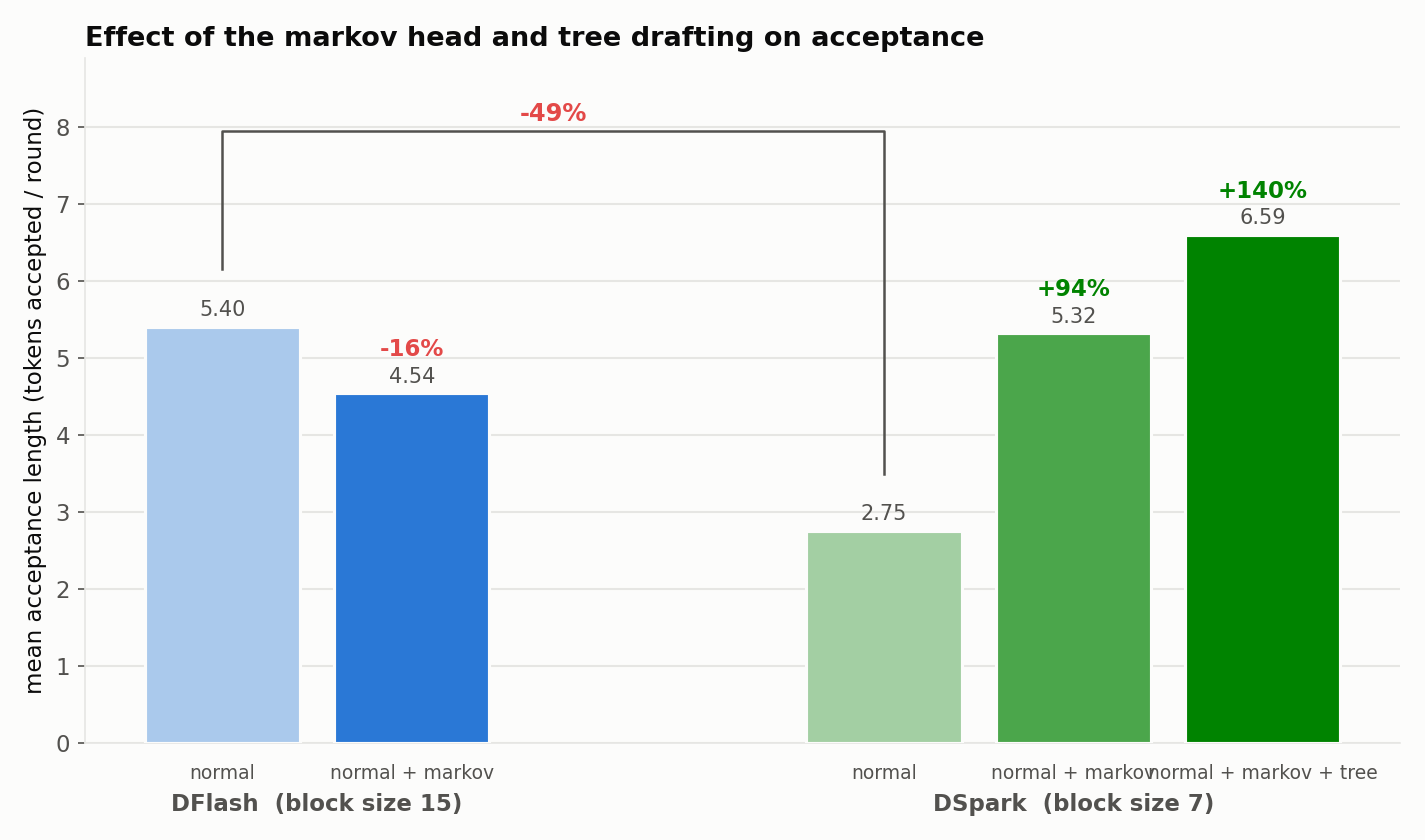
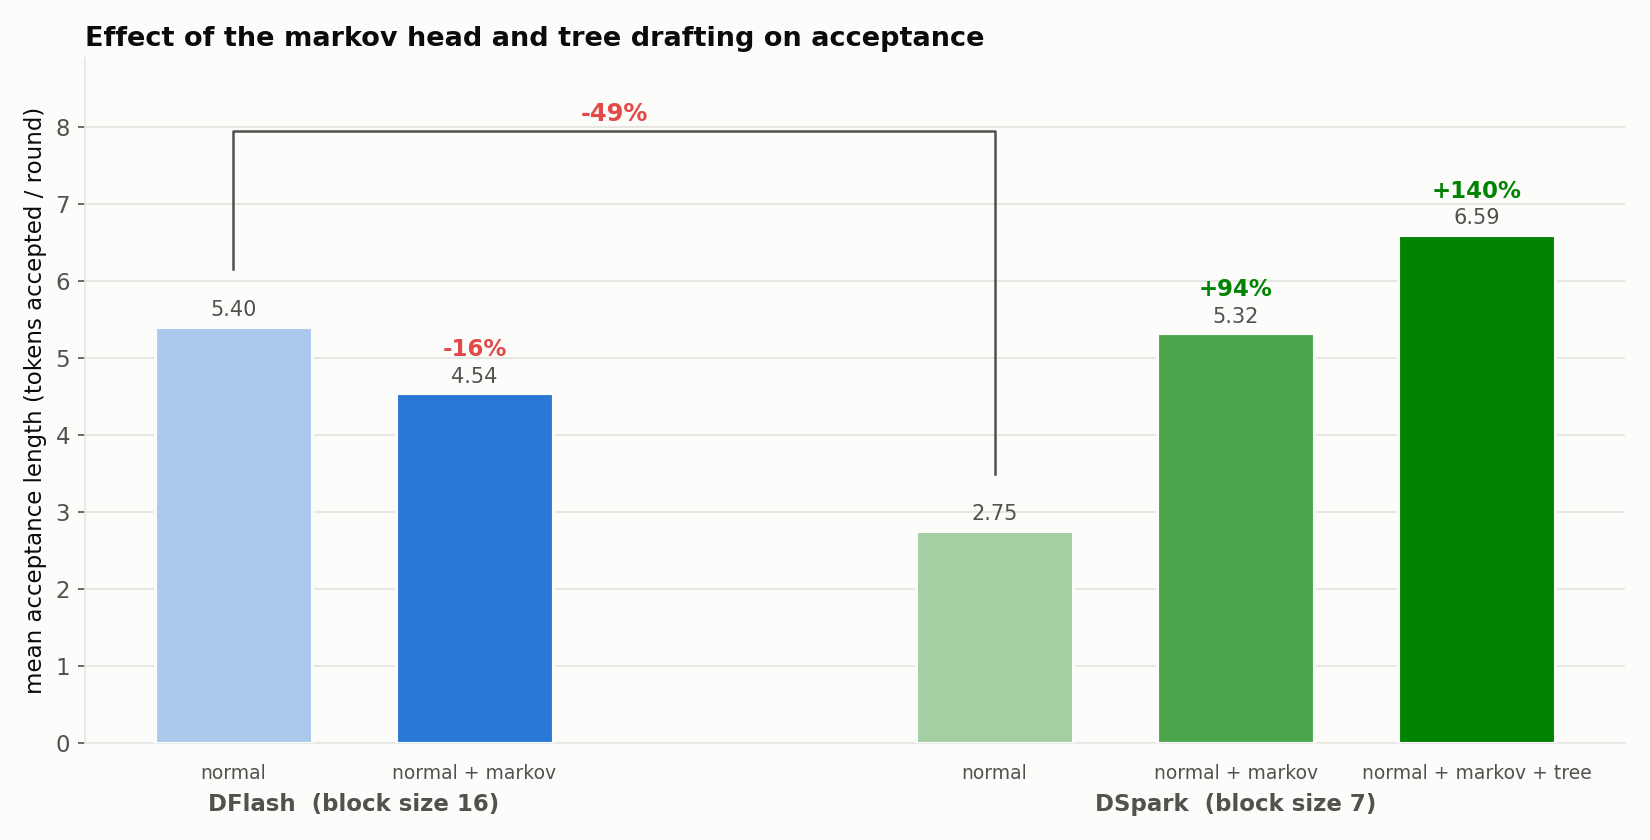
Standardize SparklingTree block size to 16; refresh three regenerated charts
Claude-Session: https://claude.ai/code/session_01Ev2qgrrBSa65wfv6bmJC1b

diff --git a/content/blogs.js b/content/blogs.js
@@ -2155,17 +2155,17 @@ DDTree starts at an extremely high acceptance rate, because it can hedge with mu
 
 SparklingTree takes the best of both worlds. It starts high due to the hedging and branching, but also maintains relatively steady throughout depth because of the markov model conditioning.
 
-*Note: DDTree and DFlash are block size 15 drafters, so the graph continues for them, but not for this initial version of SparklingTree or DSpark.*
+*Note: DDTree and DFlash are block size 16 drafters, so the graph continues for them, but not for this initial version of SparklingTree or DSpark.*
 
 We next compare the acceptance lengths of the different models:
 
 ![SparklingTree improves on DSpark and DFlash but loses to DDTree (note the difference in block size).](/content/sparklingtree/results-2-acceptance-length.png)
 
-Here it seems that DDTree beats SparklingTree, but look closer: DSpark-b7 and SparklingTree-block7 are block size 7 models, compared to the block 15 models for DDTree and DFlash. This means DFlash is drafting 15 tokens at once, while DSpark is drafting only 7 — and SparklingTree is almost hitting the max ceiling at 6.59. You'll also see that the markov model + tree applied to DSpark leads to a **+23.9%** gain.
+Here it seems that DDTree beats SparklingTree, but look closer: DSpark-b7 and SparklingTree-block7 are block size 7 models, compared to the block 16 models for DDTree and DFlash. This means DFlash is drafting 15 tokens at once, while DSpark is drafting only 7 — and SparklingTree is almost hitting the max ceiling at 6.59. You'll also see that the markov model + tree applied to DSpark leads to a **+23.9%** gain.
 
 ## The harness must be trained jointly
 
-You may wonder why we did not just use the DFlash model (since it is trained for block size 15) and drop it into the SparklingTree harness (DSpark markov model + tree). While the tree addition alone would work (DDTree works out of the box with DFlash, since it expects marginal probabilities), DSpark's markov model would *not* work.
+You may wonder why we did not just use the DFlash model (since it is trained for block size 16) and drop it into the SparklingTree harness (DSpark markov model + tree). While the tree addition alone would work (DDTree works out of the box with DFlash, since it expects marginal probabilities), DSpark's markov model would *not* work.
 
 The reason for this is that the markov model is trained **jointly** with the diffusion drafter. The objective of training DFlash is to make the top-probability tokens form a coherent sentence matching the target. The objective of training DFlash to work with the DSpark markov model is to train a model that generates probabilities that, *after being corrected*, create a coherent sentence.
 
@@ -2173,7 +2173,7 @@ To prove the point, we took the standard DFlash and added the markov model. We a
 
 ![The model only earns its weight when paired with what it was jointly trained with: DSpark needs both the markov model and the DSpark base, and DFlash gets worse (−16%) with a foreign corrector.](/content/sparklingtree/results-3-joint-training.png)
 
-This gives us our first insight: the harness needs to be trained jointly with the model, or else it's not usable. This also means that for us to properly compare DFlash/DDTree (block size 15) against DSpark/SparklingTree (block size 7, nearly saturated), we'll need to train our own version of DSpark that is jointly trained for block size 15.
+This gives us our first insight: the harness needs to be trained jointly with the model, or else it's not usable. This also means that for us to properly compare DFlash/DDTree (block size 16) against DSpark/SparklingTree (block size 7, nearly saturated), we'll need to train our own version of DSpark that is jointly trained for block size 16.
 
 ## Extending the block size because SparklingTree saturated b=7
 
@@ -2181,11 +2181,11 @@ Like I explained earlier, the DSpark model + markov corrector + tree pushed DSpa
 
 ![The block 7 SparklingTree is literally hitting its ceiling: 58% of b7 rounds land at the cap (gsm8k alone: 95%), versus only 8% at the b16 cap.](/content/sparklingtree/results-4-b7-ceiling.png)
 
-To break past this ceiling, we had to retrain DSpark to work with a block size of 15 (16 max tokens drafted and accepted). Since the starting model, DeepSeek's released `dspark_qwen3_4b_block7` drafter, can be changed to draft 15 blocks with just a setting tweak (it does not change any parameter shapes), it can do block=15 out of the box — it will just perform terribly, because it has never seen training data above block=7.
+To break past this ceiling, we had to retrain DSpark to work with a block size of 15 (16 max tokens drafted and accepted). Since the starting model, DeepSeek's released `dspark_qwen3_4b_block7` drafter, can be changed to draft 16 blocks with just a setting tweak (it does not change any parameter shapes), it can do block=16 out of the box — it will just perform terribly, because it has never seen training data above block=7.
 
 We take the DeepSpec codebase, load in our starting point, then continue training with block size 16 on sequence size 768, 32 anchors per sequence, at 600 steps with 2,400 PerfectBlend chat conversations. We also make sure to continue training the markov head (though it should not matter, since the markov model is position invariant) and the confidence head.
 
-![DSpark finetuned to block size 15 performs the best because it breaks the b=7 ceiling: SparklingTree b16 reaches 8.21 accepted tokens per verifier call (+24% over b7, +52% over DFlash).](/content/sparklingtree/results-5-final-acceptance.png)
+![DSpark finetuned to block size 16 performs the best because it breaks the b=7 ceiling: SparklingTree b16 reaches 8.21 accepted tokens per verifier call (+24% over b7, +52% over DFlash).](/content/sparklingtree/results-5-final-acceptance.png)
 
 The results achieve our goal of smashing the 7 token max limit of DSpark.
 
